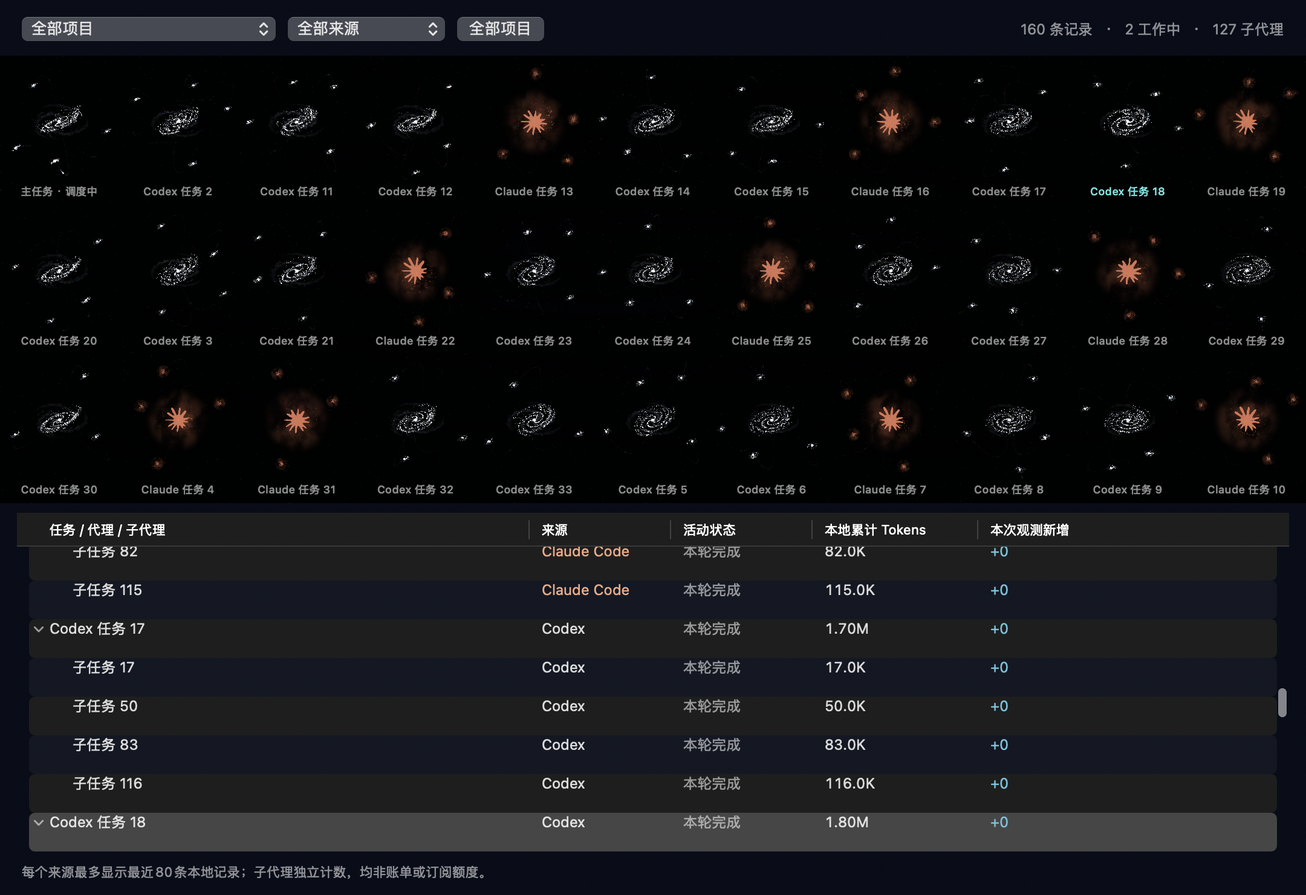
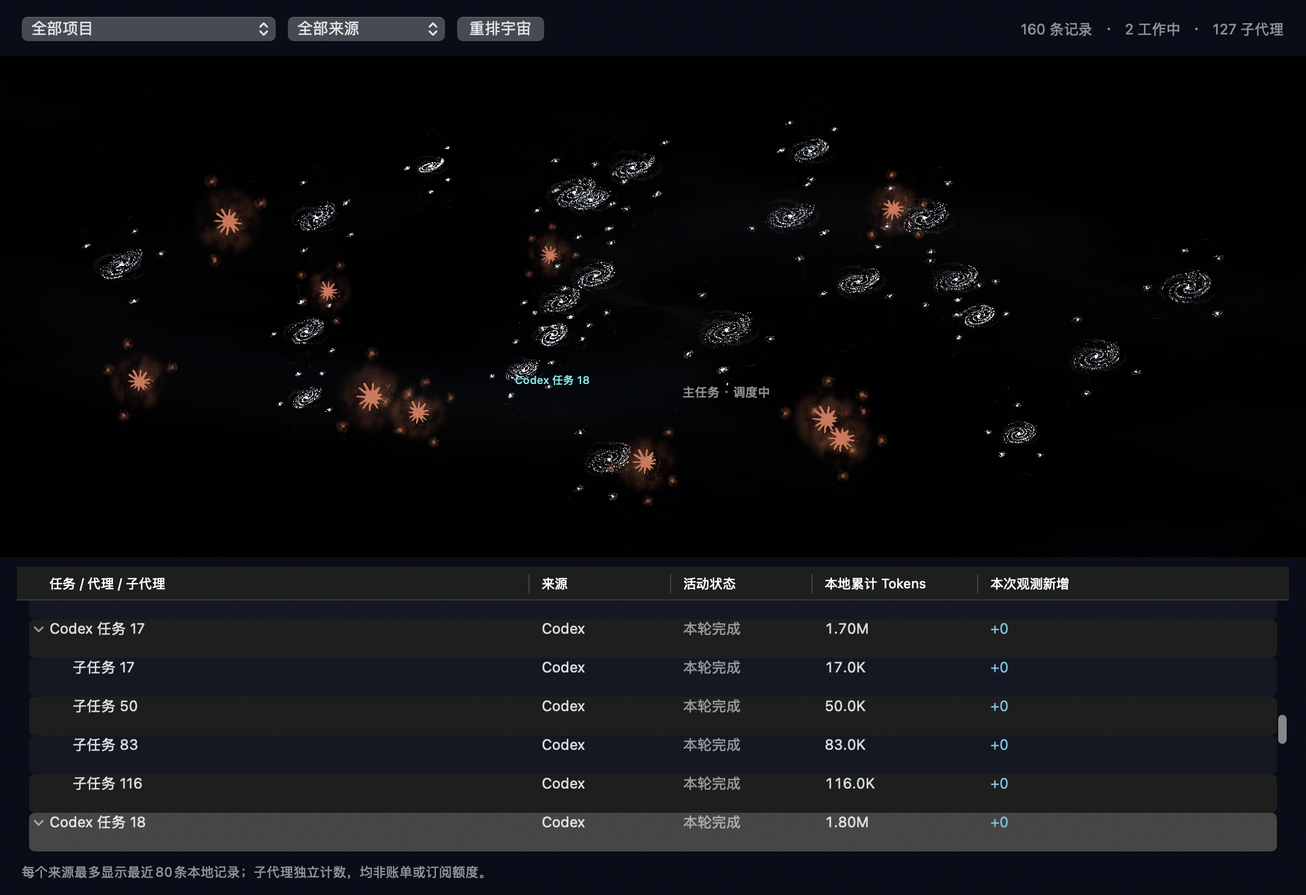
Turn task overview into a slowly drifting organic universe

diff --git a/plugins/token-galaxy/Sources/VisualModel.swift b/plugins/token-galaxy/Sources/VisualModel.swift
@@ -86,6 +86,21 @@ struct IdleConversationFocus {
 final class GalaxyModel {
     var overviewLayout=false {didSet{chooseVisible();rebuild()}}
     private var overviewViewport=SIMD2<Float>(1080,370)
+    private var overviewSeed:UInt64=0
+    private var universeClock:Float=0
+    private var universeExtents=SIMD2<Float>(0.8,0.65)
+    func reshuffleOverview(){guard overviewLayout else{return};overviewSeed &+= 1;chooseVisible();rebuild()}
+    private func overviewPosition(_ n:NodeMotion,id:String)->SIMD3<Float>{
+        guard let root=overviewFamilies[id],let center=state[root]?.position else{return n.position}
+        let t=universeClock*0.006,co=cos(t),si=sin(t)
+        let q=SIMD2(center.x/universeExtents.x,center.y/universeExtents.y)
+        let drift=SIMD2((q.x*co-q.y*si)*universeExtents.x,(q.x*si+q.y*co)*universeExtents.y)
+        let phase=stableSeed(root)*6.283185
+        let sway=SIMD2<Float>(sin(universeClock*0.018+phase)*0.007,cos(universeClock*0.015+phase)*0.005)
+        let local=SIMD2(n.position.x-center.x,n.position.y-center.y)*overviewViewport/2
+        let a=universeClock*0.003,offset=SIMD2(local.x*cos(a)-local.y*sin(a),local.x*sin(a)+local.y*cos(a))*2/overviewViewport
+        return SIMD3(drift.x+sway.x+offset.x,drift.y+sway.y+offset.y,n.position.z)
+    }
     private var overviewOrder=[String](),overviewRadii=[String:Float]()
     private(set) var overviewRoots=Set<String>(),overviewLabelRects=[String:SIMD4<Float>](),overviewFamilies=[String:String]()
     func setOverviewViewport(_ size:SIMD2<Float>){
@@ -206,9 +221,9 @@ final class GalaxyModel {
     private func chooseVisible() {
         guard !tasks.isEmpty else { shown = [];overviewRoots=[];overviewLabelRects=[:];overviewFamilies=[:]; return }
         if overviewLayout {
-            let layout=OverviewConstellationLayout(tasks:tasks,previousOrder:overviewOrder,viewport:overviewViewport)
-            overviewOrder=layout.order;shown=layout.items;overviewRoots=layout.roots;overviewRadii=layout.radii;overviewLabelRects=layout.labelRects;overviewFamilies=layout.families
-            for t in shown {guard var n=state[t.id],let p=layout.positions[t.id] else{continue};n.target=p;n.position=p;n.radius=layout.radii[t.id] ?? 0.04;state[t.id]=n}
+            let layout=OverviewConstellationLayout(tasks:tasks,previousOrder:overviewOrder,viewport:overviewViewport,seed:overviewSeed)
+            overviewOrder=layout.order;shown=layout.items;overviewRoots=layout.roots;overviewRadii=layout.radii;overviewLabelRects=layout.labelRects;overviewFamilies=layout.families;universeExtents=layout.worldExtents
+            for t in shown {guard var n=state[t.id],let p=layout.positions[t.id] else{continue};n.target=p;if n.radius==0{n.position=p;n.radius=layout.radii[t.id] ?? 0.04};state[t.id]=n}
             return
         }
         let root = selected.map { family($0) } ?? focusID ?? family(tasks[0].id)
@@ -259,7 +274,7 @@ final class GalaxyModel {
         guard dt > 0 else { return }
         // Event lifetimes progress even when motion is reduced; movement does not.
         clock += dt
-        if !reduceMotion { handoffAge += dt }
+        if !reduceMotion { handoffAge += dt;if overviewLayout{universeClock += dt} }
         var workPeak: Float = 0, tokenPeak: Float = 0
         var drive=SIMD4<Float>(repeating:0)
         for task in tasks {
@@ -283,7 +298,7 @@ final class GalaxyModel {
             n.tokenEnergy += (tokenTarget - n.tokenEnergy) * min(1, dt * (tokenTarget > n.tokenEnergy ? 26 : 5))
             if !reduceMotion {
                 n.phase += dt * displayRotationRate(n,isLead:isPrimary(task.id))
-                n.position += (n.target - n.position) * min(1, dt * 4)
+                n.position += (n.target - n.position) * min(1, dt * (overviewLayout ? 1.3:4))
             }
             let isLead = isPrimary(task.id)
             let targetRadius = desiredRadius(task,isLead:isLead)
@@ -318,7 +333,7 @@ final class GalaxyModel {
             let age = clock - n.workAt, tokenAge = clock - n.tokenAt
             let context = t.contextInput.flatMap { input in t.contextLimit.flatMap { $0 > 0 ? min(1, Float(input) / Float($0)) : nil } } ?? -1
             let particles = overviewLayout ? (t.provider == .claude ? (isLead ? 384:96):(isLead ? min(tasks.count>80 ? 900:1600,max(320,mass.grains)):max(32,min(120,mass.grains/16)))) : (t.provider == .claude ? (isLead ? 768:384):(isLead ? mass.grains:max(70,Int(Float(mass.grains)*0.13))))
-            let p = isLead && !overviewLayout ? SIMD3<Float>(0, 0, 0.02) : n.position
+            let p = overviewLayout ? overviewPosition(n,id:t.id):(isLead ? SIMD3<Float>(0, 0, 0.02):n.position)
             nodes.append(GalaxyGPU(brand:SIMD4(t.provider == .claude ? 1:0,t.readIssue != nil || t.pendingBytes>0 ? 1:0,isLead && !overviewLayout ? handoffAge : 100,overviewLayout && t.id==selected ? 1:0),space: SIMD4(p.x, p.y, p.z, radius),
                 visual: SIMD4(Float(mass.tier), lead, Float(particles), stableSeed(t.id)),
                 motion: SIMD4(n.phase, n.workEnergy, Float(n.workPhase.rawValue), n.tokenEnergy),
@@ -344,7 +359,7 @@ final class GalaxyModel {
         }
     }
     func evidence() -> [String: Any] {
-        ["recentCodexTokens":recentTotals.x,"recentClaudeTokens":recentTotals.y,"claudeRiverShare":recentVisual.z,"composition":overviewLayout ? "task-families":"unified", "leadProvider":shown.first?.provider.rawValue ?? "", "leadCount":nodes.filter{$0.visual.y>0.5}.count, "handoffAge":handoffAge, "dualProvider":dualProvider,"codexWork":providerDrive.x,"codexTokens":providerDrive.y,"claudeWork":providerDrive.z,"claudeTokens":providerDrive.w,"codexFlowClock":providerClocks.x,"claudeFlowClock":providerClocks.y,"focusID": shown.first?.id ?? "", "visibleTasks": shown.count, "records": tasks.count,
+        ["recentCodexTokens":recentTotals.x,"recentClaudeTokens":recentTotals.y,"claudeRiverShare":recentVisual.z,"universeClock":universeClock,"composition":overviewLayout ? "task-universe":"unified", "leadProvider":shown.first?.provider.rawValue ?? "", "leadCount":nodes.filter{$0.visual.y>0.5}.count, "handoffAge":handoffAge, "dualProvider":dualProvider,"codexWork":providerDrive.x,"codexTokens":providerDrive.y,"claudeWork":providerDrive.z,"claudeTokens":providerDrive.w,"codexFlowClock":providerClocks.x,"claudeFlowClock":providerClocks.y,"focusID": shown.first?.id ?? "", "visibleTasks": shown.count, "records": tasks.count,
          "links": links.count, "workDrive": workDrive, "tokenDrive": tokenDrive,
          "flowRate": 0.035 + workDrive * 0.34 + tokenDrive * 0.28,
          "receivedEvents": receivedEvents, "receivedTokens": receivedTokens,

diff --git a/plugins/token-galaxy/Sources/StarField.swift b/plugins/token-galaxy/Sources/StarField.swift
@@ -28,6 +28,9 @@ final class StarField: NSView, MTKViewDelegate {
     var stale = false { didSet { model.stale = stale } }
     private var overviewLabels=[String:OverviewTaskLabel]()
     private var overviewTimer:Timer?
+    private var overviewTracking:NSTrackingArea?
+    private var hoveredFamily:String?
+    private var workingFamilies=Set<String>()
     private var metal: ClearMetalView?
     private var queue: MTLCommandQueue?
     private var background: MTLRenderPipelineState?
@@ -61,19 +64,45 @@ final class StarField: NSView, MTKViewDelegate {
     private func updateOverviewLabels(){
         guard isOverview else{return}
         let roots=model.overviewRoots
+        workingFamilies=Set(model.shown.filter{$0.isWorking}.compactMap{model.overviewFamilies[$0.id]})
         for id in Array(overviewLabels.keys) where !roots.contains(id){overviewLabels.removeValue(forKey:id)?.removeFromSuperview()}
         for id in roots {
             guard let rect=model.overviewLabelRects[id],let task=model.shown.first(where:{$0.id==id}) else{continue}
             let label=overviewLabels[id] ?? OverviewTaskLabel(labelWithString:"")
             if overviewLabels[id]==nil{label.alignment = .center;label.lineBreakMode = .byTruncatingTail;addSubview(label);overviewLabels[id]=label}
-            label.frame=NSRect(x:CGFloat(rect.x),y:CGFloat(rect.y),width:CGFloat(rect.z),height:CGFloat(rect.w))
             label.font=NSFont.systemFont(ofSize:min(11,max(9,CGFloat(rect.z)/11)),weight:.medium)
             label.stringValue=task.label
             label.textColor=model.overviewFamilies[selected ?? ""]==id ? .systemMint:.secondaryLabelColor
             let children=model.overviewFamilies.values.filter{$0==id}.count-1
             label.toolTip="\(task.label)\n\(task.provider.label) · \(children) 个子任务"
         }
+        updateOverviewLabelFrames()
     }
+    func reshuffleOverview(){model.reshuffleOverview();updateOverviewLabels()}
+    private func updateOverviewLabelFrames(){
+        guard isOverview else{return}
+        let selectedFamily=model.overviewFamilies[selected ?? ""]
+        for (index,task) in model.shown.enumerated(){
+            guard index<model.nodes.count,let label=overviewLabels[task.id],let rect=model.overviewLabelRects[task.id] else{continue}
+            let p=model.nodes[index].space
+            let x=(1+CGFloat(p.x))*bounds.width/2+CGFloat(rect.x)
+            let y=(1-CGFloat(p.y))*bounds.height/2+CGFloat(rect.y)
+            label.frame=NSRect(x:max(2,min(bounds.width-CGFloat(rect.z)-2,x)),y:max(2,min(bounds.height-CGFloat(rect.w)-2,y)),width:CGFloat(rect.z),height:CGFloat(rect.w))
+            label.isHidden=task.id != selectedFamily && task.id != hoveredFamily && !workingFamilies.contains(task.id)
+        }
+    }
+    override func updateTrackingAreas(){
+        super.updateTrackingAreas()
+        if let old=overviewTracking{removeTrackingArea(old);overviewTracking=nil}
+        guard isOverview else{return}
+        let area=NSTrackingArea(rect:.zero,options:[.mouseMoved,.mouseEnteredAndExited,.activeAlways,.inVisibleRect],owner:self,userInfo:nil)
+        addTrackingArea(area);overviewTracking=area
+    }
+    override func mouseMoved(with event:NSEvent){
+        guard isOverview else{return}
+        hoveredFamily=taskID(at:convert(event.locationInWindow,from:nil)).flatMap{model.overviewFamilies[$0]};updateOverviewLabelFrames()
+    }
+    override func mouseExited(with event:NSEvent){hoveredFamily=nil;updateOverviewLabelFrames()}
     deinit {overviewTimer?.invalidate()}
     private func configureFrameDriver(){
         overviewTimer?.invalidate();overviewTimer=nil
@@ -184,6 +213,7 @@ final class StarField: NSView, MTKViewDelegate {
             model.step(dt, reduceMotion: reduced)
             if !reduced { visualTime += dt }
         }
+        updateOverviewLabelFrames()
         encode(pass, command, view.drawableSize); command.present(drawable); command.commit(); frameCount += 1
     }
     func advancePreview(seconds: Float) {
@@ -215,12 +245,13 @@ final class StarField: NSView, MTKViewDelegate {
         guard let c = CGContext(data: &pixels, width: w, height: h, bitsPerComponent: 8, bytesPerRow: w * 4,
                                 space: CGColorSpaceCreateDeviceRGB(), bitmapInfo: CGBitmapInfo.byteOrder32Little.rawValue | CGImageAlphaInfo.premultipliedFirst.rawValue),
               let cg = c.makeImage() else { return nil }
+        updateOverviewLabelFrames()
         let image=NSImage(cgImage:cg,size:s)
         guard isOverview,!overviewLabels.isEmpty else{return image}
         let composed=NSImage(size:s);composed.lockFocusFlipped(true)
         image.draw(in:NSRect(origin:.zero,size:s))
         let sx=s.width/max(1,bounds.width),sy=s.height/max(1,bounds.height)
-        for label in overviewLabels.values {
+        for label in overviewLabels.values where !label.isHidden {
             let style=NSMutableParagraphStyle();style.alignment = .center;style.lineBreakMode = .byTruncatingTail
             let frame=label.frame,rect=NSRect(x:frame.minX*sx,y:frame.minY*sy,width:frame.width*sx,height:frame.height*sy)
             let font=NSFont.systemFont(ofSize:(label.font?.pointSize ?? 10)*sy,weight:.medium)
@@ -230,7 +261,7 @@ final class StarField: NSView, MTKViewDelegate {
     }
     func taskID(at point: NSPoint) -> String? {
         guard !model.nodes.isEmpty else { return nil }
-        if isOverview,let label=overviewLabels.first(where:{$0.value.frame.contains(point)}){return label.key}
+        if isOverview,let label=overviewLabels.first(where:{!$0.value.isHidden && $0.value.frame.contains(point)}){return label.key}
         let m = min(bounds.width, bounds.height)
         let candidates = model.nodes.enumerated().map { i, node -> (Int, CGFloat) in
             let perspective = 1 / (1 - node.space.z * 0.20)

diff --git a/plugins/token-galaxy/Sources/OverviewLayout.swift b/plugins/token-galaxy/Sources/OverviewLayout.swift
@@ -1,7 +1,7 @@
 import Foundation
 import simd
 
-/// A stable family map for the large overview. Selection never changes its topology.
+/// Seeded organic placement; selection and ordinary refresh never change its seed.
 struct OverviewConstellationLayout {
     let order:[String]
     let items:[TaskUsage]
@@ -10,7 +10,8 @@ struct OverviewConstellationLayout {
     let radii:[String:Float]
     let labelRects:[String:SIMD4<Float>]
     let families:[String:String]
-    init(tasks:[TaskUsage],previousOrder:[String],viewport:SIMD2<Float>){
+    let worldExtents:SIMD2<Float>
+    init(tasks:[TaskUsage],previousOrder:[String],viewport:SIMD2<Float>,seed:UInt64=0){
         let byID=Dictionary(uniqueKeysWithValues:tasks.map{($0.id,$0)})
         func root(_ id:String)->String {
             var current=id,path=[String]()
@@ -30,37 +31,56 @@ struct OverviewConstellationLayout {
         }
         let order=retained+newRoots
         let width=max(1,viewport.x),height=max(1,viewport.y),count=max(1,order.count)
-        var columns=1,best:Float=0
-        for c in 1...count {
-            let rows=(count+c-1)/c,fit=min(width/Float(c),height/Float(rows))
-            if fit>best {best=fit;columns=c}
-        }
-        let rows=(count+columns-1)/columns,cw=width/Float(columns),ch=height/Float(rows)
+        let base=min(min(width,height)*0.28,sqrt(width*height/(Float(count)*Float.pi))*0.50)
+        let footprints=Dictionary(uniqueKeysWithValues:order.enumerated().map{index,id in
+            (id,base*(0.75+stableSeed(id+"depth")*0.60)*(index==0 && count>3 ? 1.16:1))
+        })
+        let largest=footprints.values.max() ?? base
+        let extents=SIMD2(max(0.18,1-2*(largest+12)/width),max(0.18,1-2*(largest+25)/height))
         var positions=[String:SIMD3<Float>](),radii=[String:Float](),labels=[String:SIMD4<Float>](),items=[TaskUsage]()
-        func point(_ x:Float,_ y:Float)->SIMD3<Float>{SIMD3(x/width*2-1,1-y/height*2,0)}
+        var centers=[String:SIMD2<Float>]()
         for (index,id) in order.enumerated(){
             guard let main=byID[id] else{continue}
-            let x=(Float(index%columns)+0.5)*cw,y=(Float(index/columns)+0.5)*ch-7
-            let rootSize=min(cw*0.22,ch*(count==1 ? 0.30:0.25))
-            let mass=TokenScale.cumulative(main.total)
-            positions[id]=point(x,y);radii[id]=rootSize*(0.84+Float(mass.tier)*0.04)*2/height
-            labels[id]=SIMD4(Float(index%columns)*cw+4,Float(index/columns+1)*ch-17,cw-8,15)
+            var random=UInt64(stableSeed(id)*1_000_000) ^ (seed &* 0x9e3779b97f4a7c15)
+            func next()->Float {
+                random &+= 0x9e3779b97f4a7c15
+                var z=random;z=(z^(z>>30)) &* 0xbf58476d1ce4e5b9;z=(z^(z>>27)) &* 0x94d049bb133111eb;z ^= z>>31
+                return Float(z>>40)/16_777_216
+            }
+            let footprint=footprints[id] ?? base
+            var chosen=SIMD2<Float>(repeating:0),best:Float = -1
+            for _ in 0..<64 {
+                let radius=sqrt(next())*(index==0 ? 0.22:1),angle=next()*2*Float.pi
+                let candidate=SIMD2(cos(angle)*radius*extents.x,sin(angle)*radius*extents.y)
+                var separation:Float=10
+                for other in order.prefix(index) {
+                    guard let c=centers[other] else{continue}
+                    let delta=(candidate-c)*SIMD2(width/2,height/2)
+                    separation=min(separation,simd_length(delta)/(footprint+(footprints[other] ?? base)))
+                }
+                // Prefer separated candidates, with slight variation instead of a lattice.
+                let score=separation*(0.93+next()*0.07)
+                if score>best{best=score;chosen=candidate}
+            }
+            if count==1{chosen = .zero}
+            centers[id]=chosen;positions[id]=SIMD3(chosen.x,chosen.y,0)
+            let rootSize=footprint*0.54,mass=TokenScale.cumulative(main.total)
+            radii[id]=rootSize*(0.84+Float(mass.tier)*0.04)*2/height
+            let orbit=footprint*0.85,labelWidth=min(150,max(82,footprint*2.5))
+            // Rectangles are offsets from the rendered family center, in screen points.
+            labels[id]=SIMD4(-labelWidth/2,orbit+6,labelWidth,15)
             items.append(main)
             let children=tasks.filter{$0.id != id && family[$0.id]==id}.sorted{$0.id<$1.id}
-            let orbit=min(cw*0.44,max(8,ch*0.43-10))
-            let inner=min(orbit*0.77,rootSize*1.25)
-            let density=Float(max(1,children.count))
+            let inner=min(orbit*0.77,rootSize*1.25),density=Float(max(1,children.count))
             let childSize=max(1.2,min(rootSize*0.22,orbit/sqrt(density)*0.48))
             for (i,t) in children.enumerated(){
-                // A golden-angle distribution fills the family's annulus without stacking siblings.
                 let angle=Float(i)*2.399963+stableSeed(id)*6.283185
-                let fraction=sqrt((Float(i)+0.5)/density)
-                let distance=inner+(orbit-inner)*fraction
-                positions[t.id]=point(x+cos(angle)*distance,y+sin(angle)*distance)
+                let distance=inner+(orbit-inner)*sqrt((Float(i)+0.5)/density)
+                positions[t.id]=SIMD3(chosen.x+cos(angle)*distance*2/width,chosen.y-sin(angle)*distance*2/height,0)
                 radii[t.id]=childSize*(0.88+Float(TokenScale.cumulative(t.total).tier)*0.03)*2/height
                 items.append(t)
             }
         }
-        self.order=order;self.items=items;self.roots=allRoots;self.positions=positions;self.radii=radii;self.labelRects=labels;self.families=family
+        self.order=order;self.items=items;self.roots=allRoots;self.positions=positions;self.radii=radii;self.labelRects=labels;self.families=family;self.worldExtents=extents
     }
 }

diff --git a/plugins/token-galaxy/Sources/Overview.swift b/plugins/token-galaxy/Sources/Overview.swift
@@ -13,14 +13,14 @@ final class OverviewController:NSObject,NSOutlineViewDataSource,NSOutlineViewDel
     private var records=[TaskUsage](),deltas=[String:Int64](),roots=[AgentNode](),nodes=[String:AgentNode]()
     private var filter="",signature="",projectKey="",updating=false
     override init(){
-        window=NSWindow(contentRect:NSRect(x:0,y:0,width:1080,height:740),styleMask:[.titled,.closable,.miniaturizable,.resizable],backing:.buffered,defer:false);window.title="Token 星河 · 任务与代理工作总览";window.minSize=NSSize(width:760,height:560);window.isReleasedWhenClosed=false
+        window=NSWindow(contentRect:NSRect(x:0,y:0,width:1080,height:740),styleMask:[.titled,.closable,.miniaturizable,.resizable],backing:.buffered,defer:false);window.title="Token 星河 · 任务与代理工作总览";window.minSize=NSSize(width:760,height:560);window.isReleasedWhenClosed=false;window.acceptsMouseMovedEvents=true
         let root=NSView();root.wantsLayer=true;root.layer?.backgroundColor=NSColor(calibratedRed:0.035,green:0.045,blue:0.075,alpha:1).cgColor;window.contentView=root;root.appearance=NSAppearance(named:.darkAqua)
         field=StarField(frame:.zero);field.isOverview=true
         super.init();window.delegate=self
         project.addItem(withTitle:"全部项目");project.lastItem?.representedObject=""
         project.target=self;project.action=#selector(changeProject);project.translatesAutoresizingMaskIntoConstraints=false;root.addSubview(project)
         provider.addItem(withTitle:"全部来源");provider.lastItem?.representedObject="";provider.isHidden=true;provider.target=self;provider.action=#selector(changeProvider);provider.translatesAutoresizingMaskIntoConstraints=false;root.addSubview(provider)
-        let reset=NSButton(title:"全部项目",target:self,action:#selector(resetFilter));reset.translatesAutoresizingMaskIntoConstraints=false;root.addSubview(reset)
+        let reset=NSButton(title:"重排宇宙",target:self,action:#selector(reshuffleUniverse));reset.translatesAutoresizingMaskIntoConstraints=false;root.addSubview(reset)
         summary.font=NSFont.systemFont(ofSize:12);summary.textColor = .secondaryLabelColor;summary.translatesAutoresizingMaskIntoConstraints=false;root.addSubview(summary)
         field.translatesAutoresizingMaskIntoConstraints=false;field.onSelect={[weak self] id in guard let self=self,let node=self.nodes[id] else{return};var ancestors=[AgentNode](),p=node.task.parentID,seen=Set<String>();while let key=p,let parent=self.nodes[key],!seen.contains(key){seen.insert(key);ancestors.append(parent);p=parent.task.parentID};for parent in ancestors.reversed(){self.outline.expandItem(parent)};let row=self.outline.row(forItem:node);if row>=0{self.outline.selectRowIndexes(IndexSet(integer:row),byExtendingSelection:false);self.outline.scrollRowToVisible(row)}};root.addSubview(field)
         let scroll=NSScrollView();scroll.hasVerticalScroller=true;scroll.hasHorizontalScroller=true;scroll.autohidesScrollers=true;scroll.translatesAutoresizingMaskIntoConstraints=false;scroll.drawsBackground=false;root.addSubview(scroll)
@@ -31,7 +31,7 @@ final class OverviewController:NSObject,NSOutlineViewDataSource,NSOutlineViewDel
         providerWidth=provider.widthAnchor.constraint(equalToConstant:0)
         NSLayoutConstraint.activate([
             project.leadingAnchor.constraint(equalTo:root.leadingAnchor,constant:18),project.topAnchor.constraint(equalTo:root.topAnchor,constant:14),project.widthAnchor.constraint(equalToConstant:210),provider.leadingAnchor.constraint(equalTo:project.trailingAnchor,constant:10),providerWidth!,provider.centerYAnchor.constraint(equalTo:project.centerYAnchor),reset.leadingAnchor.constraint(equalTo:provider.trailingAnchor,constant:10),reset.centerYAnchor.constraint(equalTo:project.centerYAnchor),summary.trailingAnchor.constraint(equalTo:root.trailingAnchor,constant:-18),summary.centerYAnchor.constraint(equalTo:project.centerYAnchor),
-            field.topAnchor.constraint(equalTo:project.bottomAnchor,constant:12),field.leadingAnchor.constraint(equalTo:root.leadingAnchor),field.trailingAnchor.constraint(equalTo:root.trailingAnchor),field.heightAnchor.constraint(equalTo:root.heightAnchor,multiplier:0.50),
+            field.topAnchor.constraint(equalTo:project.bottomAnchor,constant:12),field.leadingAnchor.constraint(equalTo:root.leadingAnchor),field.trailingAnchor.constraint(equalTo:root.trailingAnchor),field.heightAnchor.constraint(equalTo:root.heightAnchor,multiplier:0.56),
             scroll.topAnchor.constraint(equalTo:field.bottomAnchor,constant:8),scroll.leadingAnchor.constraint(equalTo:root.leadingAnchor,constant:14),scroll.trailingAnchor.constraint(equalTo:root.trailingAnchor,constant:-14),scroll.bottomAnchor.constraint(equalTo:note.topAnchor,constant:-10),note.leadingAnchor.constraint(equalTo:root.leadingAnchor,constant:18),note.trailingAnchor.constraint(lessThanOrEqualTo:root.trailingAnchor,constant:-18),note.bottomAnchor.constraint(equalTo:root.bottomAnchor,constant:-12)
         ]);window.center()
     }
@@ -41,6 +41,7 @@ final class OverviewController:NSObject,NSOutlineViewDataSource,NSOutlineViewDel
     func windowDidDeminiaturize(_ notification:Notification){field.paused=motionPaused}
     @objc func changeProvider(){reload()}
     @objc func changeProject(){filter=project.selectedItem?.representedObject as? String ?? "";reload()}
+    @objc func reshuffleUniverse(){field.reshuffleOverview()}
     @objc func resetFilter(){filter="";project.selectItem(at:0);reload()}
     func update(_ items:[TaskUsage],observed:[String:Int64],increments:[String:Int64],events:[String:[WorkEvent]]=[:]){
         records=items;deltas=observed

diff --git a/plugins/token-galaxy/Sources/App.swift b/plugins/token-galaxy/Sources/App.swift
@@ -276,7 +276,7 @@ final class AppController:NSObject,NSApplicationDelegate,NSTouchBarDelegate,NSMe
         do{
             try FileManager.default.createDirectory(at:folder,withIntermediateDirectories:true)
             let details=tasks.prefix(12).map{t->[String:Any] in ["provider":t.provider.rawValue,"taskID":t.id,"total":t.total,"lastUserAt":t.lastUserAt ?? 0,"lastEventAt":t.lastEventAt ?? 0,"contextInput":t.contextInput ?? -1,"contextLimit":t.contextLimit ?? -1,"state":t.stateLabel,"pendingBytes":t.pendingBytes]}
-            let value:[String:Any]=["version":"0.8.0","capabilities":["touchBar":hasTouchBar,"providers":visibleProviders.map{$0.rawValue}],"claudeLogoScale":Double(scene.claudeLogoScale),"codexTokens":codexUsage?.total ?? -1,"claudeTokens":claudeUsage?.total ?? -1,"codexRecords":codexUsage?.records ?? 0,"claudeRecords":claudeUsage?.records ?? 0,"sourceErrors":sourceErrors,"menuTotalTokens":allUsage?.total ?? -1,"menuIndexedTokens":allUsage?.indexedTotal ?? -1,"menuRecordCount":allUsage?.records ?? 0,"menuLogOverrides":allUsage?.logOverrides ?? 0,"menuTitle":status.button?.title ?? "","selectedTaskID":selected ?? "","selectionMode":selectionMode,"idleSeconds":max(0,ProcessInfo.processInfo.systemUptime-idleFocus.lastInteraction),"fastestMainConversationID":scene.model.fastestConversation(keeping:selected) ?? "","observationStartedAt":observationStartedAt,"detailsOpen":detailPopover?.isShown ?? false,"applicationActive":NSApp.isActive,"pid":ProcessInfo.processInfo.processIdentifier,"timestamp":now,"polls":sampleCount,"readOK":readOK,"sampleMS":lastSampleMS,"lastGoodRead":lastSampleAt,"scene":scene.runtimeEvidence(),"touchBar":touchScene?.runtimeEvidence() ?? [:],"overview":overview?.field.runtimeEvidence() ?? [:],"overviewVisible":overview?.window.isVisible ?? false,"overviewMinimized":overview?.window.isMiniaturized ?? false,"recentEvents":eventTrace,"recentRecords":details,"observedTokens":observed.values.reduce(0,+),"opacity":Double(panel.alphaValue),"screenSleeping":screenSleeping,"reduceMotion":NSWorkspace.shared.accessibilityDisplayShouldReduceMotion,"probeFrames":probeFrame]
+            let value:[String:Any]=["version":"0.8.1","capabilities":["touchBar":hasTouchBar,"providers":visibleProviders.map{$0.rawValue}],"claudeLogoScale":Double(scene.claudeLogoScale),"codexTokens":codexUsage?.total ?? -1,"claudeTokens":claudeUsage?.total ?? -1,"codexRecords":codexUsage?.records ?? 0,"claudeRecords":claudeUsage?.records ?? 0,"sourceErrors":sourceErrors,"menuTotalTokens":allUsage?.total ?? -1,"menuIndexedTokens":allUsage?.indexedTotal ?? -1,"menuRecordCount":allUsage?.records ?? 0,"menuLogOverrides":allUsage?.logOverrides ?? 0,"menuTitle":status.button?.title ?? "","selectedTaskID":selected ?? "","selectionMode":selectionMode,"idleSeconds":max(0,ProcessInfo.processInfo.systemUptime-idleFocus.lastInteraction),"fastestMainConversationID":scene.model.fastestConversation(keeping:selected) ?? "","observationStartedAt":observationStartedAt,"detailsOpen":detailPopover?.isShown ?? false,"applicationActive":NSApp.isActive,"pid":ProcessInfo.processInfo.processIdentifier,"timestamp":now,"polls":sampleCount,"readOK":readOK,"sampleMS":lastSampleMS,"lastGoodRead":lastSampleAt,"scene":scene.runtimeEvidence(),"touchBar":touchScene?.runtimeEvidence() ?? [:],"overview":overview?.field.runtimeEvidence() ?? [:],"overviewVisible":overview?.window.isVisible ?? false,"overviewMinimized":overview?.window.isMiniaturized ?? false,"recentEvents":eventTrace,"recentRecords":details,"observedTokens":observed.values.reduce(0,+),"opacity":Double(panel.alphaValue),"screenSleeping":screenSleeping,"reduceMotion":NSWorkspace.shared.accessibilityDisplayShouldReduceMotion,"probeFrames":probeFrame]
             let bytes=try JSONSerialization.data(withJSONObject:value,options:[.prettyPrinted,.sortedKeys])
             try bytes.write(to:folder.appendingPathComponent("status.json"),options:.atomic)
         }catch{status.button?.toolTip="运行诊断暂不可写；用量读取继续"}

diff --git a/plugins/token-galaxy/Sources/Validation.swift b/plugins/token-galaxy/Sources/Validation.swift
@@ -322,6 +322,20 @@ func runFamilyOverviewChecks() throws {
         try validationCheck(abs(node.space.x)<1 && abs(node.space.y)<1,"Family center lies outside overview")
         if let parent=t.parentID,let p=model.shown.firstIndex(where:{$0.id==parent}){try validationCheck(model.nodes[p].space.w>node.space.w*2,"Main task lost size hierarchy")}
     }
+    let beforeDrift=model.nodes.map{$0.space}
+    for _ in 0..<300{model.step(1.0/30)}
+    try validationCheck(model.nodes.map{$0.space} != beforeDrift && model.selected=="main-17","Universe drift stopped or changed selection")
+    let frozen=model.nodes.map{$0.space}
+    for _ in 0..<60{model.step(1.0/30,reduceMotion:true)}
+    try validationCheck(model.nodes.map{$0.space}==frozen,"Reduced motion did not freeze universe placement")
+    model.reshuffleOverview()
+    try validationCheck(model.nodes.map{$0.space}==frozen && model.selected=="main-17","Reshuffle jumped instantly or changed selection")
+    for _ in 0..<180{model.step(1.0/30)}
+    try validationCheck(model.nodes.map{$0.space} != frozen && model.nodes.count==160 && model.links.count==127,"Reshuffle lost families or did not move")
+    let layoutA=OverviewConstellationLayout(tasks:tasks,previousOrder:[],viewport:SIMD2(1080,414))
+    let layoutB=OverviewConstellationLayout(tasks:tasks,previousOrder:[],viewport:SIMD2(1080,414),seed:1)
+    let repeatA=OverviewConstellationLayout(tasks:tasks,previousOrder:[],viewport:SIMD2(1080,414))
+    try validationCheck(layoutA.positions==repeatA.positions && layoutA.positions != layoutB.positions,"Seeded layout is unstable or cannot reshuffle")
     model.setOverviewViewport(SIMD2(760,280));try validationCheck(model.nodes.count==160,"Narrow overview lost records")
     var dense=tasks.filter{$0.id=="main-0" || $0.parentID != nil};for i in dense.indices where dense[i].parentID != nil{dense[i].parentID="main-0"}
     model.update(dense,deltas:[:],events:[:]);try validationCheck(model.nodes.count==128 && model.links.count==127,"Dense family lost children")

diff --git a/docs/CHANGELOG.md b/docs/CHANGELOG.md
@@ -1,5 +1,11 @@
 # Changes
 
+## 0.8.1 — 2026-09-19
+
+Replace the overview grid with a seeded, organic universe: varied larger task nebulae, their orbiting children and a shared diffuse background drift slowly together. Ordinary refresh and selection keep the layout stable; the new “重排宇宙” button smoothly changes its arrangement without changing selection, filters, counters or activity. Labels follow rendered positions and appear for selected, working or pointed-at families. The universe occupies 56% of the window.
+
+Preserve the compact orb, Touch Bar, parent-child activity links, token-surge motion and automatic selection rules. Universe motion uses an integrated visual clock, freezes with pause/Reduce Motion, and does not catch up after a hidden window. Regression coverage includes stable seeds, drift, reshuffling, all 160 fixture records, native hit testing and close/reopen rendering.
+
 ## 0.8.0 — 2026-09-18
 
 Give the overview an independent multi-family layout instead of the orb's 14–18-node selection. Every currently read record is represented, with a larger root nebula, nearby descendants, real immediate-parent links and root task labels. Stable family order survives selection and refresh; outline selection is restored by task ID. The field uses half the overview height and adapts to viewport size. Missing parents and cycles are bounded safely.

diff --git a/README.md b/README.md
@@ -13,7 +13,7 @@ A small native macOS orb that turns local AI work into a living star field.
 ## What it does
 
 - Shows Codex and Claude Code sessions, main tasks and subagents in a floating orb and a filterable task overview.
-- Expands the large overview into stable task families: one larger nebula per root, with its own child tasks around it. All currently read records are shown; selection does not rearrange the field. The small floating orb stays compact.
+- Shows one slowly drifting universe in the large overview, with naturally scattered larger nebulae for main tasks and their own child tasks around them. All currently read records are shown. Selection and refresh keep the arrangement stable; “重排宇宙” reshuffles it smoothly. Names appear for selected, working or hovered families. The small floating orb stays compact.
 - Animates newly observed token activity; historical totals do not replay as fresh work.
 - Keeps source totals separate and displays only discovered sources. Claude appearance controls are hidden when there are no Claude records.
 - Includes a companion spirit, adjustable orb size/opacity, and independent Claude symbol sizing.

diff --git a/README.zh-CN.md b/README.zh-CN.md
@@ -13,7 +13,7 @@
 ## 能看到什么
 
 - 本地主对话、代理和子代理，以及它们的累计 token 和观测新增。
-- 大窗口按任务分组：每个主任务是一团较大的星云，子任务围绕所属任务显示；当前读取范围内的记录全部进入总览，选中任务不打乱位置。小悬浮球保持紧凑布局。
+- 大窗口是一片缓慢流动的宇宙：主任务各自形成较大的星云，自然散落，子任务环绕所属主任务，保留主子连线和活动反馈。当前读取范围内的记录全部进入总览，刷新和自动切换不打乱位置；点击“重排宇宙”可平滑换一种分布。选中、工作中或鼠标指向时显示任务名。小悬浮球保持紧凑布局。
 - 新增 token 驱动星河变化，打开应用时不会把历史量伪装成正在生成。
 - Codex 和 Claude 分来源显示；未发现 Claude 会话时隐藏 Claude 图标设置。
 - 星灵陪伴、球体大小和透明度设置，Claude 图标可独立调整大小。
